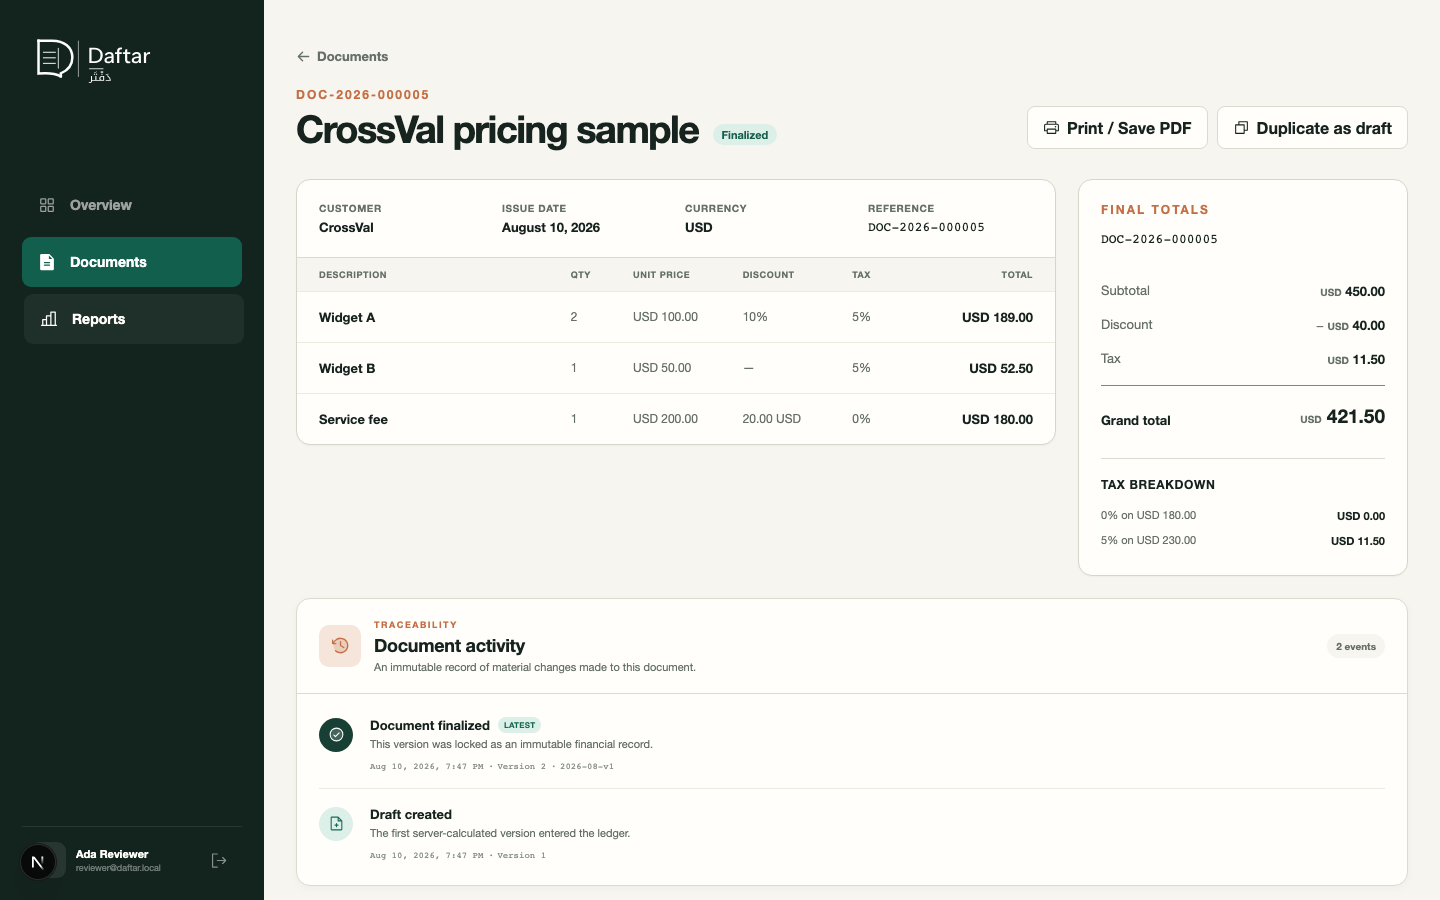
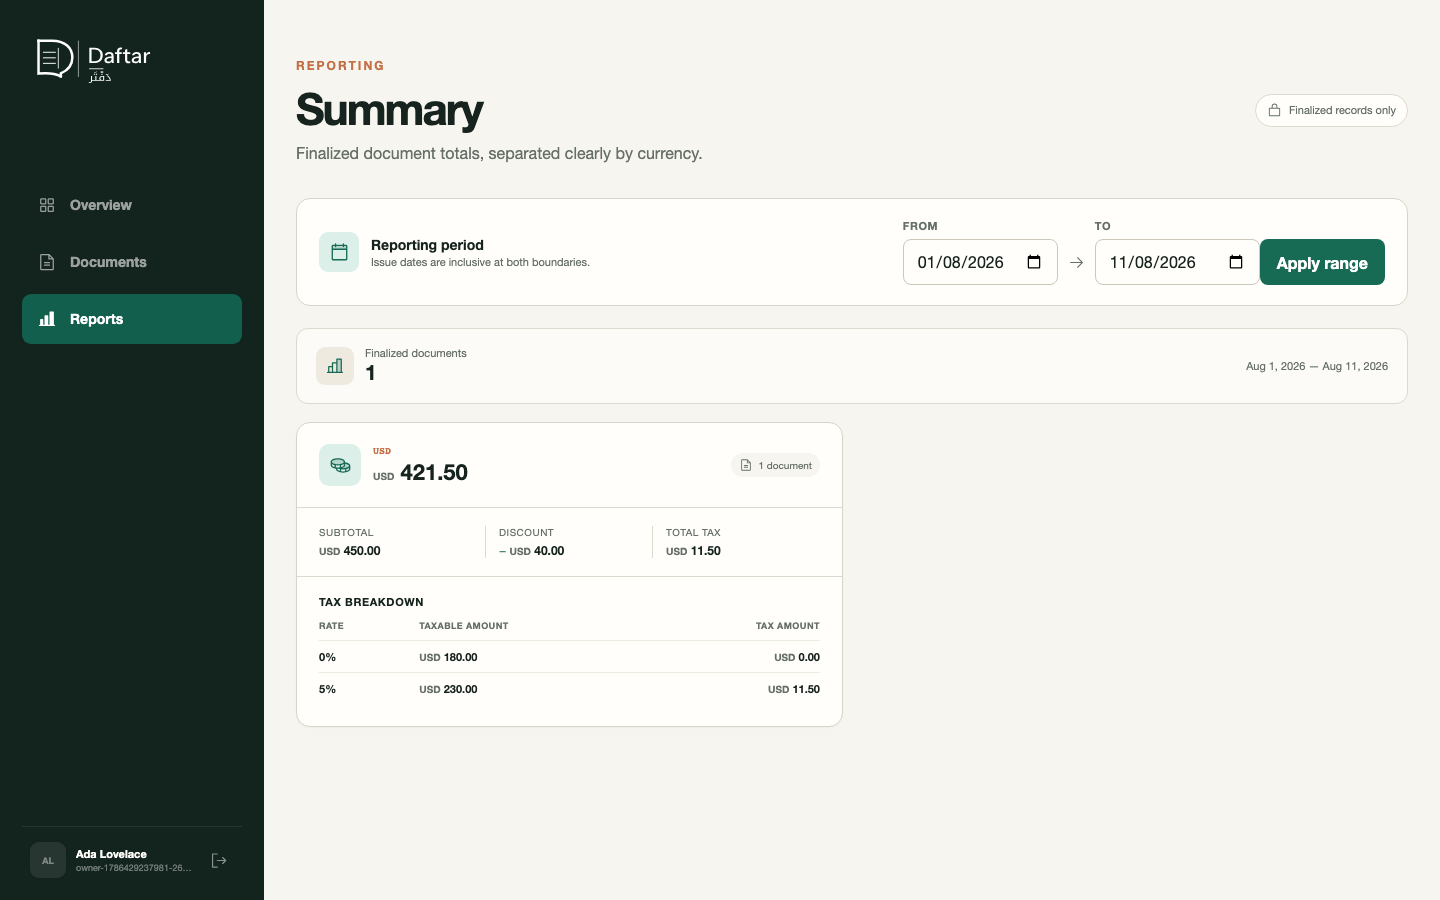
fixes

diff --git a/frontend/tests/e2e/crossval-workflow.spec.ts b/frontend/tests/e2e/crossval-workflow.spec.ts
@@ -110,6 +110,13 @@ test("authenticated CrossVal workflow remains owner-scoped", async ({ browser, p
   await expect(page.locator(".currency-report-card .money-amount").filter({ hasText: "USD 421.50" })).toBeVisible();
   await expect(page.locator(".currency-report-card .document-count")).toContainText("1 document");
 
+  const reportScreenshotPath = process.env.DAFTAR_REPORT_SCREENSHOT_PATH;
+  if (reportScreenshotPath) {
+    await page.setViewportSize({ width: 1440, height: 900 });
+    await expect(page.locator("[data-sonner-toaster] [data-sonner-toast]")).toHaveCount(0);
+    await page.screenshot({ path: reportScreenshotPath, fullPage: false });
+  }
+
   const otherContext = await browser.newContext();
   const other = await otherContext.newPage();
   await other.goto("/register");

diff --git a/README.md b/README.md
@@ -30,9 +30,9 @@ it protects ownership, preserves calculation integrity, prevents lost updates,
 locks finalized records, records an immutable audit history and turns the
 result into a polished document workflow.
 
-The system combines a Go REST API, external MongoDB Atlas persistence and a
-responsive Next.js interface. The application containers share one Docker
-Compose stack while Atlas remains independent of the deployment host.
+The system combines a Go REST API, MongoDB persistence and a responsive Next.js
+interface. A self-contained Docker Compose stack provides a local MongoDB
+replica set; production can point the same API image at MongoDB Atlas.
 Financial arithmetic is deterministic and server-owned; the browser never
 supplies calculated totals.
 
@@ -197,8 +197,8 @@ it is not a missing pagination feature.
 
 ### Delivery and verification
 
-- [x] One Docker Compose application stack for Next.js and Go, backed by external MongoDB Atlas
-- [x] Atlas replica-set transactions without a database container on the deployment host
+- [x] Reproducible Docker Compose stack for Next.js, Go and a local MongoDB replica set
+- [x] Environment-based production override for Atlas replica-set transactions
 - [x] Startup-managed strict MongoDB schema validators for every persisted collection
 - [x] Multi-stage, non-root frontend and API images
 - [x] Correlated structured operational logs with request, user and error-code context
@@ -222,8 +222,8 @@ The recommended setup only requires:
 - Git
 
 For development outside Docker, install Go matching `backend/go.mod`, Node.js
-24 or newer and npm. Every runtime uses the external MongoDB Atlas database
-configured in `.env`.
+24 or newer and npm. Native development can use the Compose-managed MongoDB
+service or an explicitly configured MongoDB Atlas cluster.
 
 ## Step-by-step setup
 
@@ -247,7 +247,7 @@ configured in `.env`.
 3. Build and start the complete stack:
 
    ```sh
-   docker compose up --build -d
+   docker compose up --build
    ```
 
 4. Confirm that all services are running:
@@ -276,7 +276,7 @@ configured in `.env`.
 | Next.js application | <http://localhost:3000> |
 | Go REST API | <http://localhost:8080> |
 | Liveness endpoint | <http://localhost:8080/api/v1/health/live> |
-| Database | External MongoDB Atlas cluster configured in `.env` |
+| MongoDB (local replica set) | `mongodb://localhost:27017` |
 
 ### Optional reviewer account
 
@@ -288,10 +288,17 @@ users or documents and repairs a partially completed finalize/archive step.
 The published credentials are local demonstration values only; replace them
 before seeding any public environment.
 
-### Run without Docker
+### Local development outside Docker
 
-Copy `.env.example`, configure the Atlas URI, then run the backend from the
-repository root. The Makefile loads the same root `.env` used by Compose:
+Install Go, Node.js 24+ and npm, then start only the local MongoDB replica set:
+
+```sh
+cp .env.example .env
+docker compose up -d mongo mongo-init
+```
+
+Run the application processes from the repository root. The Makefile loads the
+same root `.env` used by Compose and uses `DAFTAR_MONGODB_URI_NATIVE`:
 
 ```sh
 make dev
@@ -312,6 +319,22 @@ make frontend
 
 The frontend proxies `/api/v1/*` to `DAFTAR_API_INTERNAL_URL_NATIVE`, which
 defaults to `http://localhost:8080` during native local development.
+
+### Production with MongoDB Atlas
+
+The local database profile is a development default, not a production
+dependency. In the production `.env`:
+
+1. Set `COMPOSE_PROFILES=` to disable the `local-db` profile.
+2. Set `DAFTAR_MONGODB_URI` to the secret Atlas connection string supplied by
+   the deployment environment.
+3. Set `DAFTAR_ENVIRONMENT=production`, `DAFTAR_LOG_FORMAT=json`, secure cookie
+   settings, the deployed CORS origin and a unique high-entropy JWT secret.
+4. Keep `.env` outside version control and allow the deployment host to run
+   `docker compose --env-file .env up -d --build --remove-orphans`.
+
+Atlas credentials are never required for the default local Docker workflow and
+must never be committed to the repository.
 
 ### API capability map
 
@@ -365,8 +388,9 @@ docker compose logs -f
 docker compose down
 ```
 
-MongoDB Atlas owns database persistence independently of the Compose lifecycle;
-stopping or rebuilding the containers does not remove application data.
+The local `mongo_data` named volume survives ordinary container rebuilds and
+`docker compose down`. Production data remains independently owned by Atlas
+when the local database profile is disabled.
 
 ### Run the verification suites
 
